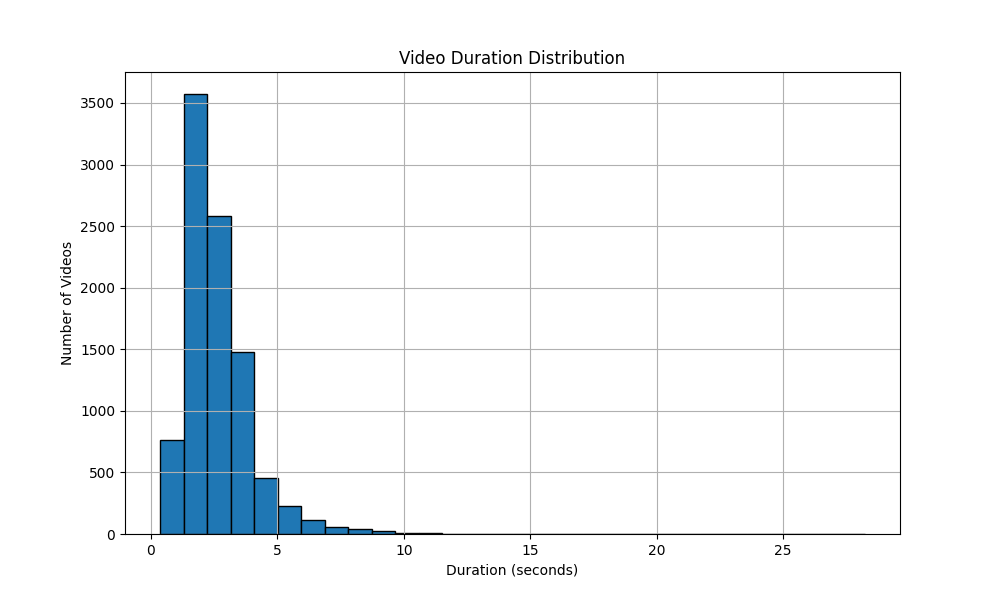
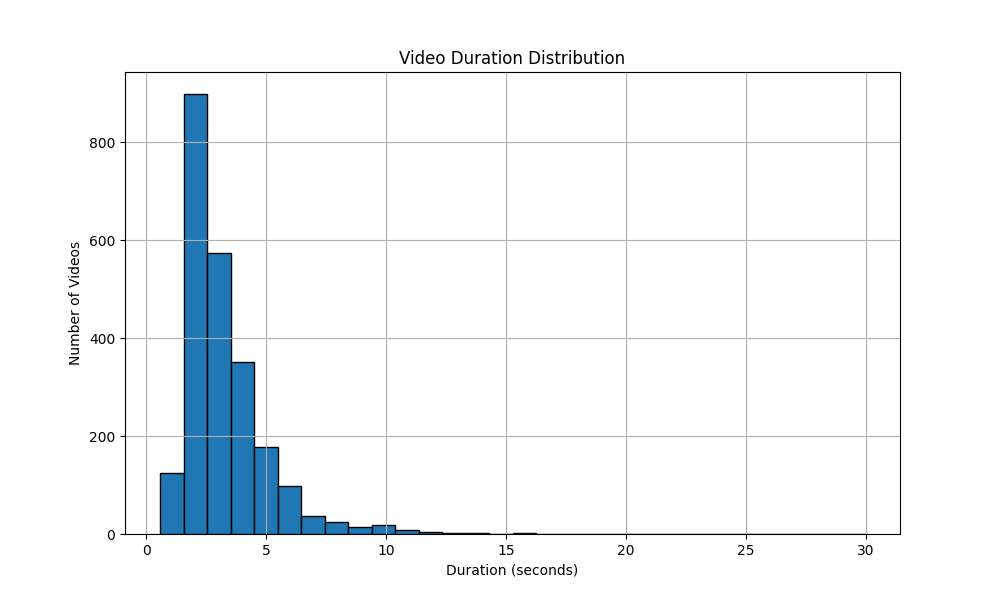
use the origianl dsfw because the clipped ones have no background; also use video_max_pixels with a new ms-swift that fixed video_total_pixels bug

diff --git a/src/DSFW/convert_csv2jsonl.py b/src/DSFW/convert_csv2jsonl.py
@@ -2,6 +2,38 @@ import csv
 import json
 import os
 import argparse
+import glob
+
+def build_video_path_mapping(base_dir):
+    """
+    Scan all part folders in the base directory and create a mapping 
+    from video ID to its subfolder path.
+    
+    Args:
+        base_dir: The base directory containing part_* folders
+        
+    Returns:
+        A dictionary mapping video IDs (as integers) to their complete paths
+    """
+    video_mapping = {}
+    
+    # Get all part_* directories
+    part_dirs = glob.glob(os.path.join(base_dir, "part_*"))
+    
+    for part_dir in part_dirs:
+        # Get all video files in this part directory
+        video_files = glob.glob(os.path.join(part_dir, "*.mp4"))
+        
+        for video_path in video_files:
+            # Extract the video ID (filename without extension)
+            video_filename = os.path.basename(video_path)
+            video_id = int(os.path.splitext(video_filename)[0])
+            
+            # Store the full path for this video ID
+            video_mapping[video_id] = video_path
+    
+    print(f"Found {len(video_mapping)} videos across {len(part_dirs)} part directories")
+    return video_mapping
 
 def convert_csv_to_json(csv_file_path, json_file_path, video_base_path):
     emotion_mapping = {
@@ -15,6 +47,12 @@ def convert_csv_to_json(csv_file_path, json_file_path, video_base_path):
     }
 
     try:
+        # Build the video path mapping if using the /original directory
+        video_path_mapping = {}
+        if "original" in video_base_path:
+            print(f"Building video path mapping from {video_base_path}...")
+            video_path_mapping = build_video_path_mapping(video_base_path)
+        
         all_records = []
         with open(csv_file_path, 'r', newline='') as csvfile:
             reader = csv.DictReader(csvfile)
@@ -37,8 +75,16 @@ def convert_csv_to_json(csv_file_path, json_file_path, video_base_path):
                     print(f"Warning: Unknown label '{label_num}' for video_name '{video_name}'. Skipping.")
                     continue
 
-                video_file_name = f"{int(video_name):05d}.avi" # Assuming .avi extension
-                full_video_path = os.path.join(video_base_path, video_file_name)
+                # Determine the full video path
+                video_id = int(video_name)
+                
+                if video_path_mapping and video_id in video_path_mapping:
+                    # Use the pre-mapped path directly
+                    full_video_path = video_path_mapping[video_id]
+                else:
+                    # Fallback to the old method
+                    video_file_name = f"{video_id:05d}.avi"  # Assuming .avi extension
+                    full_video_path = os.path.join(video_base_path, video_file_name)
 
                 json_record = {
                     "video_name": video_name,
@@ -90,13 +136,13 @@ if __name__ == "__main__":
     effective_default_json_path = os.path.join(default_output_json_parent_dir, json_filename_default)
 
     # --- Define default for video base path ---
-    default_video_base_path = "/data/datasets/affective/DFEW/Clip/clip_224x224_avi/"
+    default_video_base_path = "/data/datasets/affective/DFEW/Clip/original/"
 
     parser = argparse.ArgumentParser(description="Convert a CSV file to JSON format, adding video paths.")
     parser.add_argument(
         "--csv_file_path",
         type=str,
-        default="/data/jj/proj/AFF/data/DSFW/train_set_1.csv",
+        default="/data/jj/proj/AFF/data/DSFW/test_set_1.csv",
         help=f"Path to the input CSV file. Default is intelligently chosen, currently: '{effective_default_csv_path}'."
     )
     parser.add_argument(

diff --git a/src/MAFW/unzip_mafw_clips.py b/src/MAFW/unzip_mafw_clips.py
@@ -1,0 +1,66 @@
+#!/usr/bin/env python3
+import os
+import subprocess
+import sys
+
+def extract_7z_files(directory_path):
+    """
+    Extract 7-zip split archive files in the specified directory.
+    Will extract using the first part of the archive.
+    """
+    # Ensure the directory exists
+    if not os.path.isdir(directory_path):
+        print(f"Error: Directory {directory_path} does not exist.")
+        return False
+    
+    # Get all files in the directory
+    files = os.listdir(directory_path)
+    
+    # Find the first part of any 7z split archives
+    first_parts = [f for f in files if f.endswith('.7z.001')]
+    
+    if not first_parts:
+        print(f"No 7z split archive files found in {directory_path}")
+        return False
+    
+    # Extract each archive
+    for first_part in first_parts:
+        archive_path = os.path.join(directory_path, first_part)
+        print(f"Extracting {archive_path}...")
+        
+        try:
+            # Check if 7z is installed
+            subprocess.run(['7z', '--help'], stdout=subprocess.PIPE, stderr=subprocess.PIPE, check=False)
+        except FileNotFoundError:
+            print("Error: 7z command not found. Please install p7zip or p7zip-full package.")
+            return False
+        
+        # Extract the archive to the same directory
+        cmd = ['7z', 'x', archive_path, '-o' + directory_path]
+        
+        try:
+            process = subprocess.run(cmd, check=True)
+            if process.returncode == 0:
+                print(f"Successfully extracted {first_part}")
+            else:
+                print(f"Failed to extract {first_part}. Return code: {process.returncode}")
+        except subprocess.CalledProcessError as e:
+            print(f"Error extracting {first_part}: {e}")
+            return False
+    
+    return True
+
+if __name__ == "__main__":
+    # Default directory path
+    directory_path = "/data/datasets/affective/MAFW/MAFW/data/clips"
+    
+    # Allow custom directory path from command line
+    if len(sys.argv) > 1:
+        directory_path = sys.argv[1]
+    
+    print(f"Extracting 7z archives in: {directory_path}")
+    
+    if extract_7z_files(directory_path):
+        print("Extraction completed successfully.")
+    else:
+        print("Extraction failed.") 

diff --git a/src/DSFW/convert2swift.py b/src/DSFW/convert2swift.py
@@ -51,7 +51,7 @@ def convert_to_jsonl(input_json_path, output_jsonl_path):
 
 if __name__ == "__main__":
     parser = argparse.ArgumentParser(description="Convert a JSON file to JSONL format.")
-    parser.add_argument("--input_file", default="/data/jj/proj/AFF/data/DSFW/train_set_1.json", help="Path to the input JSON file.")
+    parser.add_argument("--input_file", default="/data/jj/proj/AFF/data/DSFW/test_set_1.json", help="Path to the input JSON file.")
     args = parser.parse_args()
 
     input_file = args.input_file

diff --git a/src/DSFW/check_video_info.py b/src/DSFW/check_video_info.py
@@ -107,6 +107,6 @@ def analyze_video_data(json_path):
         print("\nNo valid video durations found to analyze.")
 
 if __name__ == "__main__":
-    json_file_path = "/data/jj/proj/AFF/data/train_set_1.json"
+    json_file_path = "/data/jj/proj/AFF/data/DSFW/test_set_1.json"
     analyze_video_data(json_file_path)
     print("\nScript finished.") 

diff --git a/data/DSFW/README.md b/data/DSFW/README.md
@@ -1,0 +1,124 @@
+the password is SEUAIPL
+has audio but it too short so that no use normally sound is truncated.
+# README
+## Dynamic Facial Expression in-the-Wild (DFEW) Database
+* For more information about the dataset, please visit [the project website](https://dfew-dataset.github.io/).
+* If your use the dataset in a publication, please cite the paper below:
+```
+@inproceedings{jiang2020dfew,
+  title={DFEW: A Large-Scale Database for Recognizing Dynamic Facial Expressions in the Wild},
+  author={Xingxun, Jiang and Yuan, Zong and Wenming, Zheng and Chuangao, Tang and Wanchuang, Xia and Cheng, Lu and Jiateng, Liu},
+  booktitle={Proceedings of the 28th ACM International Conference on Multimedia},
+  pages={xxxx-xxxx},
+  year={2020}
+}
+```
+* Please note that we do not own the copyrights to these clips. Their use is RESTRICTED to non-commercial research and educational purposes.
+
+## Change Log
+Version 1.0, released on 10/17/2020
+
+## File Information
+### Overview
+- Clips (Clip)
+  - Original Clips (./CLip/original): Totally 16372 dynamic facial expression video clips. See "CLIP" section below for more information. 
+    - data_part_1-2-3.zip :  4800 clips.
+    - data_part_4-5-6.zip :  4800 clips. 
+    - data_part_7-8-9.zip :  4800 clips.
+    - data_part_10-11.zip :  1972 clips.
+  - Preprocessed with Time Interpolation Method(TIM) (./Clip/clip_224x224_16f.zip)
+  - Preprocessed without Time Interpolation Method(TIM) (./Clip/clip_224x224)
+    - clip_224x224_part_1.zip
+    - clip_224x224_part_2.zip
+    - clip_224x224_part_3.zip
+    - clip_224x224_part_4.zip
+    - clip_224x224_part_5.zip
+    - clip_224x224_part_6.zip
+    - clip_224x224_part_7.zip
+    - clip_224x224_part_8.zip
+    - clip_224x224_part_9.zip
+    - clip_224x224_part_10.zip
+    - clip_224x224_part_11.zip
+- Emotion Labels with data split (EmoLabel_DataSplit): Data split with single-labeled emotion for 5-fold cross-validation mentioned in the paper. 
+  - train(single_labeled).zip (./EmoLabel_DataSplit/train(single_labeled).zip):
+    - set_1.csv : training data of the fd1 cross-validation
+    - set_2.csv : training data of the fd2 cross-validation
+    - set_3.csv : training data of the fd3 cross-validation
+    - set_4.csv : training data of the fd4 cross-validation
+    - set_5.csv : training data of the fd5 cross-validation
+  - test(single_labeled).zip  (./EmoLabel_DataSplit/test(single_labeled).zip):
+    - set_1.csv : test data of the fd1 cross-validation
+    - set_2.csv : test data of the fd2 cross-validation
+    - set_3.csv : test data of the fd3 cross-validation
+    - set_4.csv : test data of the fd4 cross-validation
+    - set_5.csv : test data of the fd5 cross-validation
+- Annotations (./Annotation) : 
+  - annotation.zip (./Annotation/annotation.zip) : the 7-dimensional expression distribution vector for each video clip
+
+### CLIP
+--------------------"./Clip/original"----------------------
+Containing 16372 annotated video clip with 7-dimensional emotions distribution vector.
+
+Notes:
+1. Clips are named in the format of "XXXXX.mp4"
+
+-----------------"./Clip/clip_224x224"-----------------
+Containing 15906 annotated video clip with 7-dimensional emotions distribution vector. These clips are acquired by picking out the useless frames undetected human faces, discarding the clips which useful frames greater than 50% and face normailzation(alignment and affine). Totally 466 face undetected clips are dropped from 16372 clips, here 362 clips belongs to the single labeled DFEW.
+
+
+-----------------"./Clip/clip_224x224_16f"-----------------
+Containing 15906 annotated video clip with 7-dimensional emotions distribution vector. These clips are acquired by picking out the useless frames undetected human faces, discarding the clips which useful frames greater than 50%, face normailzation(alignment and affine) and time interpolation method(TIM). Totally 466 face undetected clips are dropped from 16372 clips, here 362 clips belongs to the single labeled DFEW.
+
+Notes:
+1. The y th frame of clip "x.mp4" is named in the format of "x_y.jpg"
+
+
+### EMOTION_LABELS & Data Split
+------------------"./EmoLabel_DataSplit"-------------------
+Containing 11697 (drop 362 clips undetected face from totally 12059 single-labled clips) annotated video clip with single-labeled discrete emotion. We used 5 fold cross-validation for evaluation methods performed on these 12059 video clips.
+fd1: 9356 clips for training, 2341 clips for test
+fd2: 9356 clips for training, 2341 clips for test
+fd3: 9357 clips for training, 2340 clips for test
+fd4: 9358 clips for training, 2339 clips for test
+fd5: 9361 clips for training, 2336 clips for test
+
+Notes:
+1: Happy
+2: Sad
+3: Neutral
+4: Angry
+5: Surprise
+6: Disgust
+7: Fear
+
+
+### Annotations
+---------------"./Annotation/annotation.xlsx"---------------
+
+each row: (vote_happy) (vote_sad) (vote_neutral) (vote_angry) (vote_surprise) (vote_disgust) (vote_fear) (clip_name) (annotation)
+
+Notes:
+0: Non single-labeled
+1: Happy 
+2: Sad 
+3: Neutral 
+4: Angry 
+5: Surprise
+6: Disgust
+7: Fear
+
+
+## Contact
+Please contact Xingxun Jiang (jiangxingxun@seu.edu.cn) for questions about the dataset.
+
+
+
+
+
+
+
+
+
+
+
+
